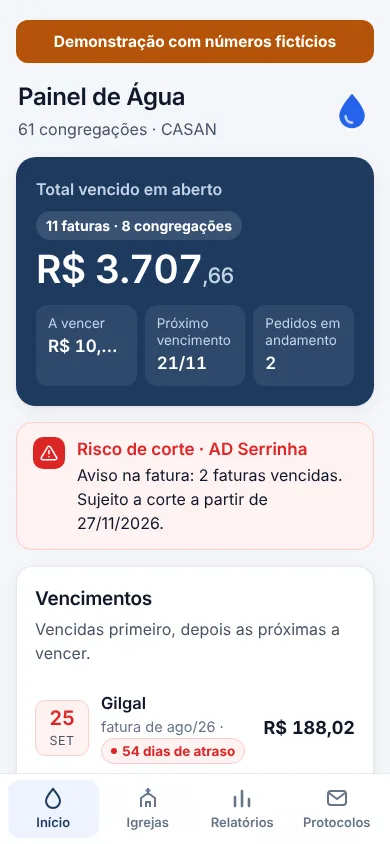
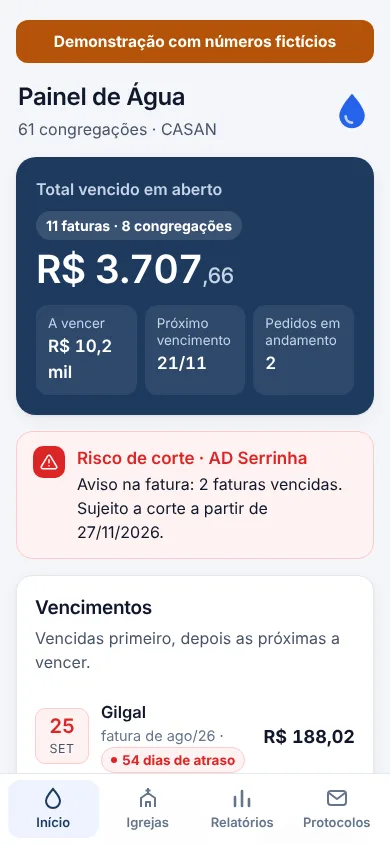
Deixa o valor a vencer quebrar linha no resumo
Valores acima de R$ 10 mil eram cortados com reticências no
cartão do resumo. Agora aparecem inteiros, em duas linhas.

Claude-Session: https://claude.ai/code/session_01DVG3HFxXcHRMa85168PDHq

diff --git a/src/styles.css b/src/styles.css
@@ -66,7 +66,7 @@ h1,h2,h3{font-family:var(--display);margin:0;text-wrap:balance;letter-spacing:-.
 .kpi-grid{display:grid;grid-template-columns:repeat(3,1fr);gap:8px}
 .kpi-grid div{background:rgba(255,255,255,.08);border-radius:12px;padding:10px 12px;min-width:0}
 .kpi-grid span{display:block;font-size:13.5px;color:#C7D4E6;line-height:1.25}
-.kpi-grid b{display:block;font-family:var(--display);font-weight:600;font-size:17px;margin-top:2px;font-variant-numeric:tabular-nums;white-space:nowrap;overflow:hidden;text-overflow:ellipsis}
+.kpi-grid b{display:block;font-family:var(--display);font-weight:600;font-size:17px;margin-top:2px;font-variant-numeric:tabular-nums;overflow-wrap:anywhere}
 
 /* alertas */
 .alerta{display:flex;gap:12px;align-items:flex-start;background:var(--vencida-bg);border:1px solid var(--vencida-bd);border-radius:var(--r-g);padding:14px 16px;text-align:left;width:100%;min-height:44px;transition:background .15s}
